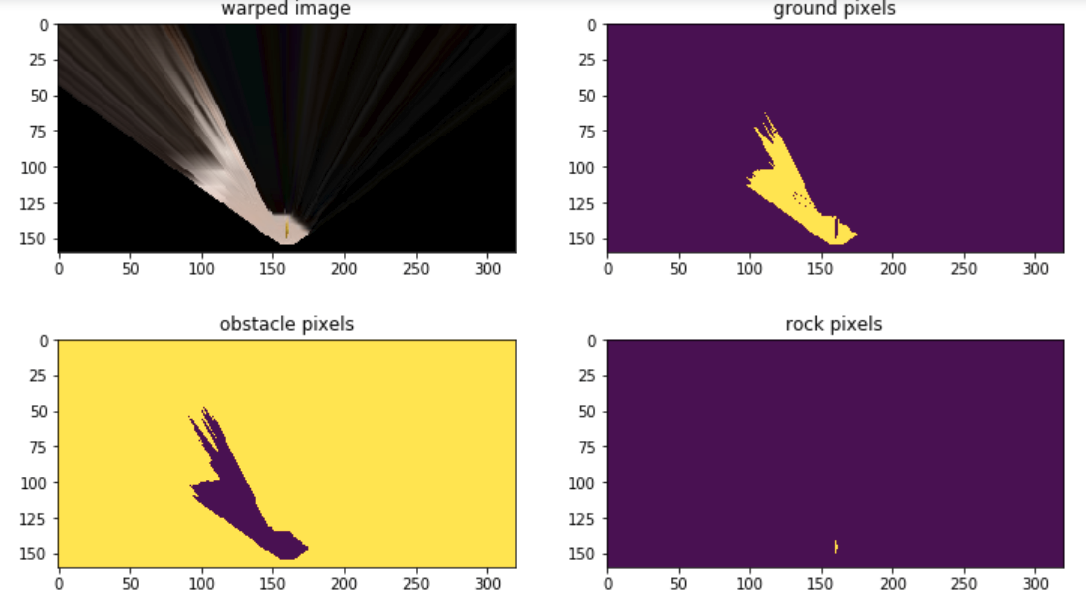
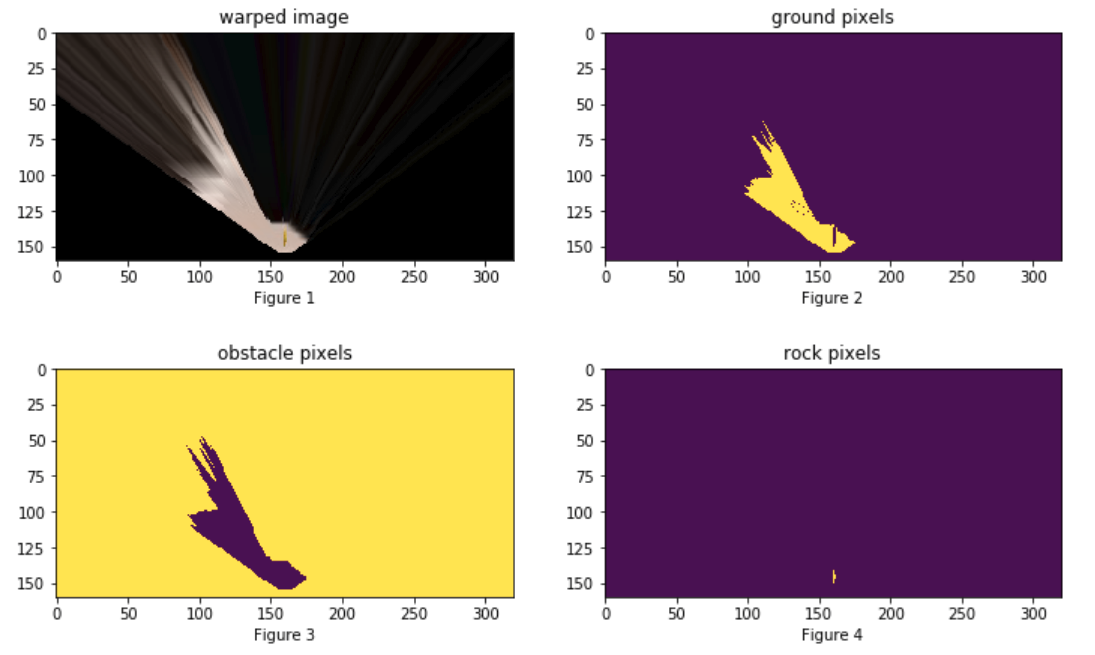
updated README.md

diff --git a/README.md b/README.md
@@ -10,10 +10,8 @@ This project is to navigate the Rover autonomously to explore a simulated enviro
 
 The simulation and the autonomy development are inspired by the [NASA sample return challenge](https://www.nasa.gov/directorates/spacetech/centennial_challenges/sample_return_robot/index.html)
 
-### Video Demo
-[Click Here](https://www.youtube.com/watch?v=ZW1d9I3rd2Y)
-
 ### Notebook Analysis
+## 1. Image processing
 `color_thresh` function defined as follows:
 ```
 # Identify pixels above the threshold
@@ -51,9 +49,9 @@ In this function, ground has already been identified as when the RGB pixel value
 
 ![color_thresh][image1]
 
-Obstacles include the true obstacles appeared in the image and black pixels that do not appear in the image (two black triangles on the warped image).
+Obstacles include the true obstacles appeared in the image and black pixels that do not appear in the image (two black triangles on the side of the warped image).
 
-Another piece added to the existing project is the `process_image()`:
+## 2. Mapping
 ```
 # Apply the above functions in succession and update the Rover state accordingly
 def perception_step(Rover):
@@ -108,7 +106,7 @@ For each image generated from the simulator, the function first loads the image 
 source, destination = define_box(img)
 warped = perspect_transform(img, source, destination)
 ```
-When Rover's camera generates a new image, it must be transformed into top-down view using perspective transformation, which helps coordinate transform later in the code.
+When Rover's camera generates a new image, it must be transformed into top-down view using perspective transformation, as shown in Figure 1, which helps coordinate transform later in the code.
 
 ```
 ground_select, obstacle_select, rock_select = color_thresh(warped)
@@ -135,3 +133,10 @@ Rover.worldmap[y_pix_rock_world, x_pix_rock_world, 1] += 1
 Rover.worldmap[y_pix_ground_world, x_pix_ground_world, 2] += 1
 ```
 Rover's worldmap can be updated by using the calculated world frame coordinates of ground, obstacles, and rocks.
+
+### Video Demo
+[Click Here](https://www.youtube.com/watch?v=ZW1d9I3rd2Y) for video demo. The simulation is run under 1920 x 1080 resolution and "Fantastic" graphics quality, giving 27 FPS. 
+
+### Autonomous Navigation and Mapping
+## 1. Perception step
+As mentioned in Noteboo
